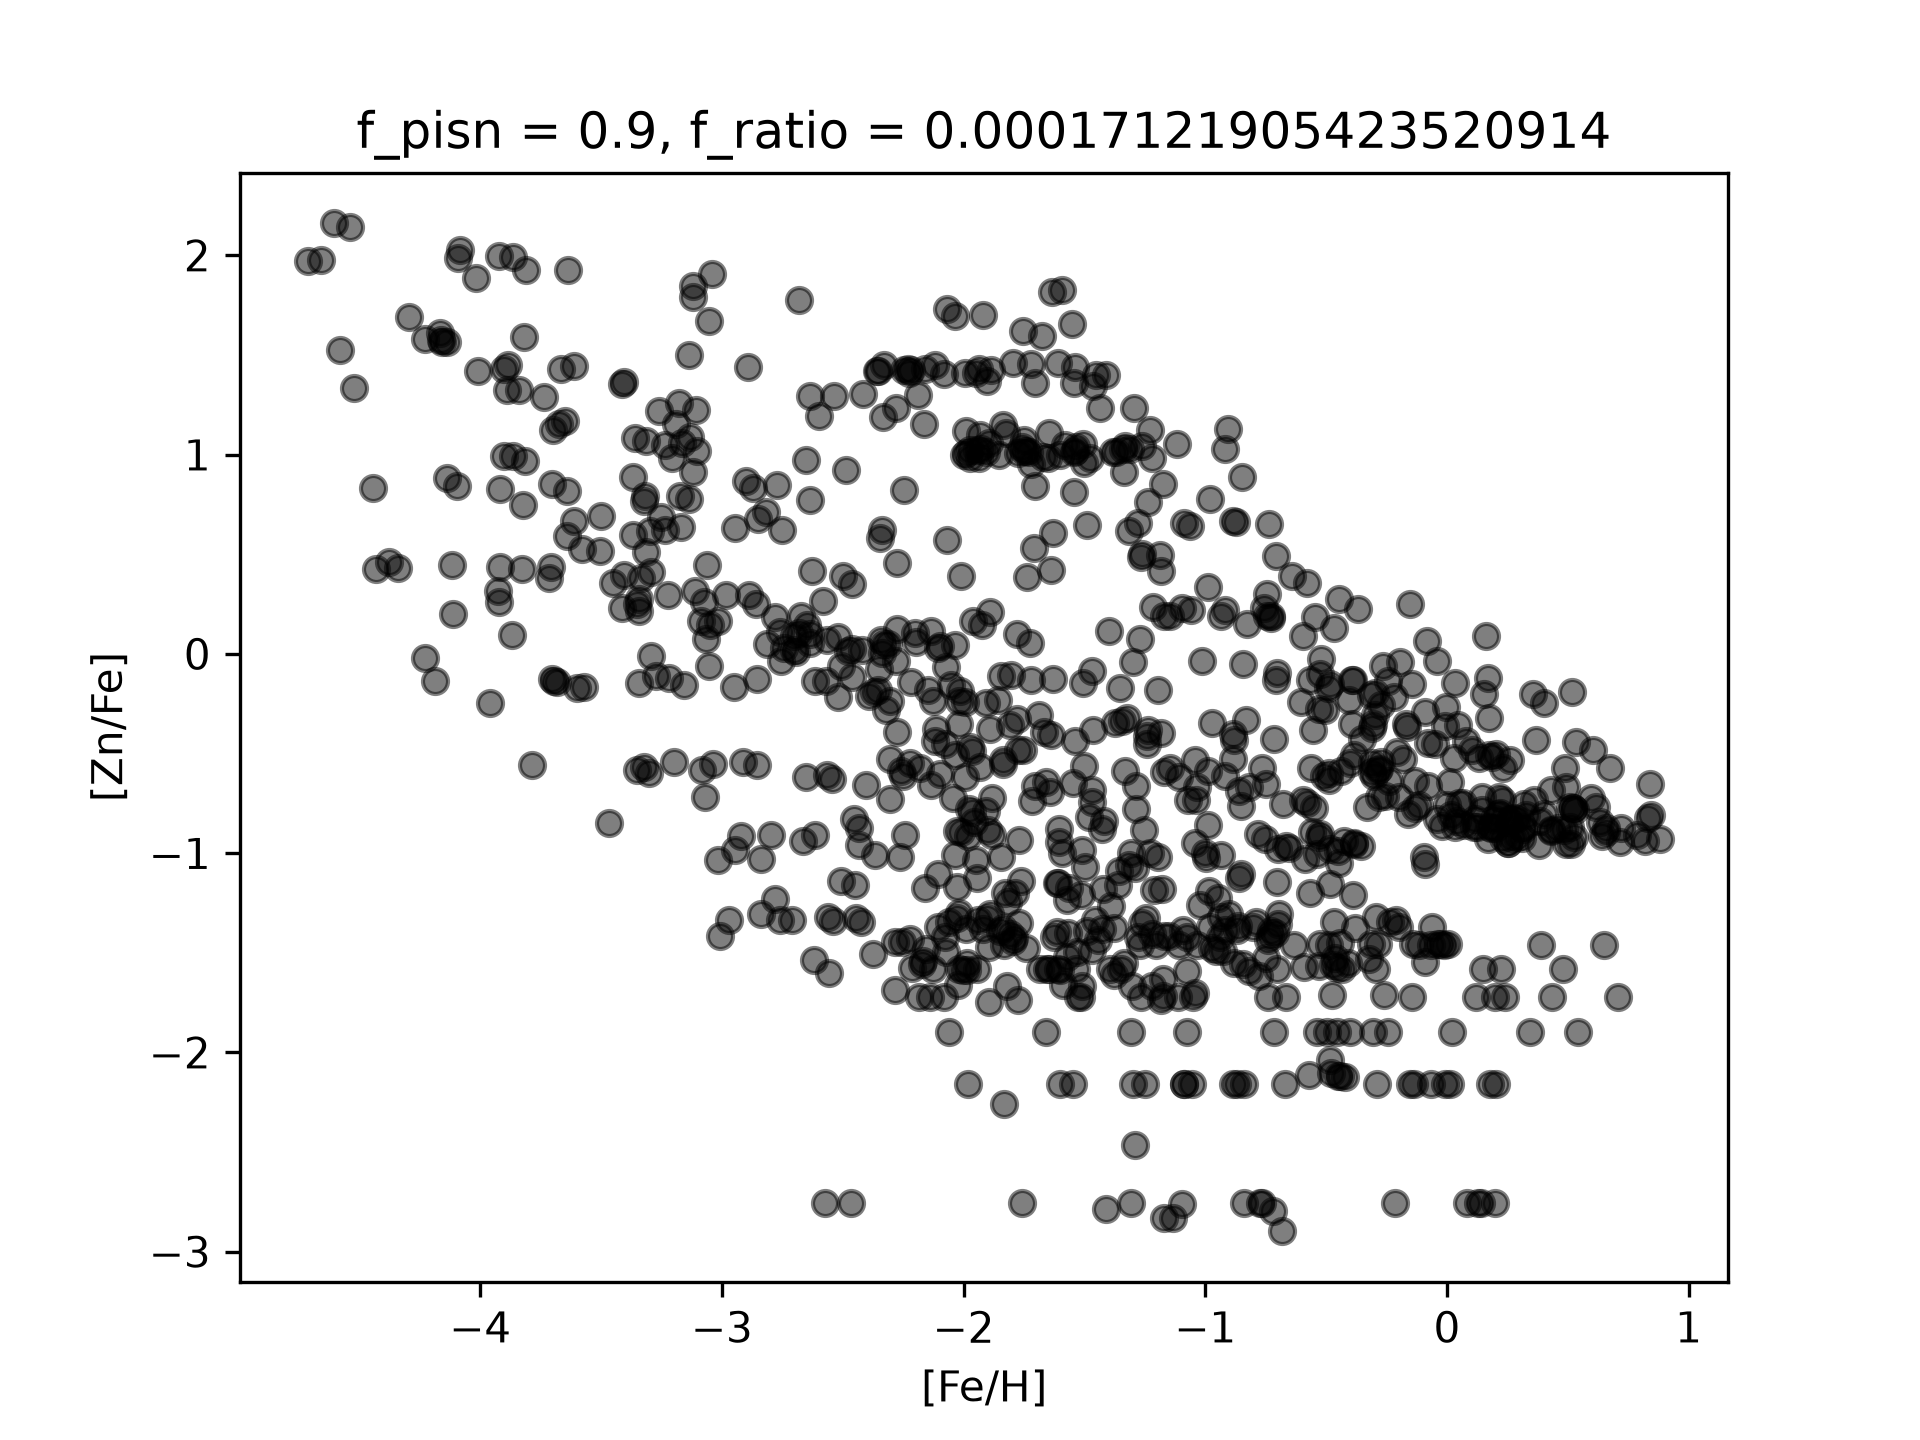
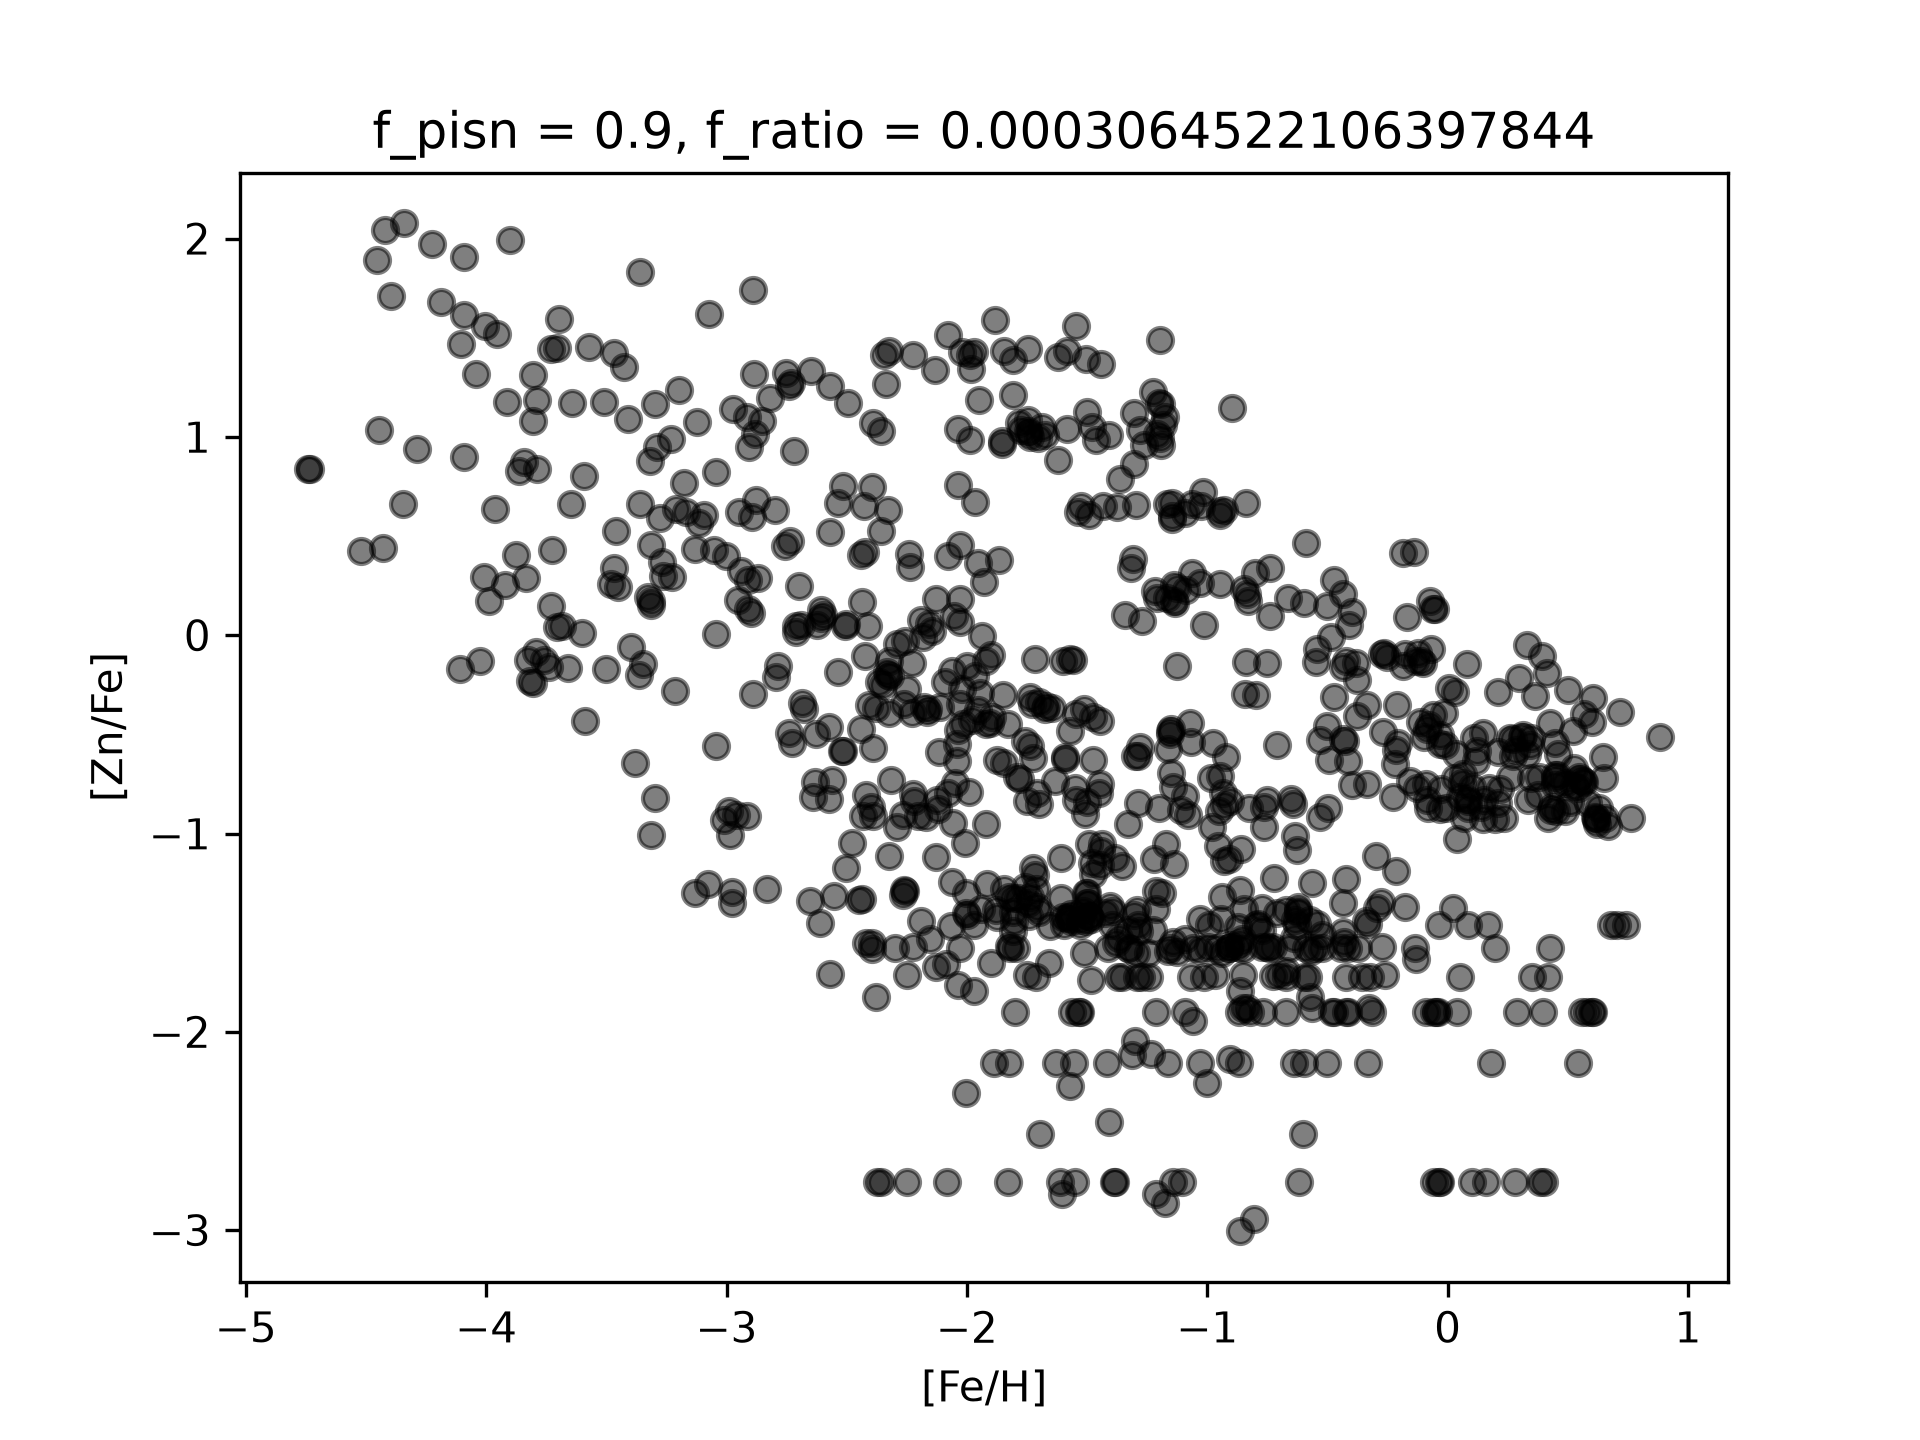
Code for Fig

diff --git a/src/salvadori/fig5.py b/src/salvadori/fig5.py
@@ -1,0 +1,169 @@
+import matplotlib.pyplot as plt
+import numpy as np
+
+from src.load_data import load_ww95
+from src.salvadori_funcs import salvadori_Y_X_II, salvadori_Y_Z_II
+from src.utils import _combine_elements
+from src.formulas import raiteri_lifetime
+from params import ww95_001Z, Z_SUN
+
+# Fig. 5 is computed at a single, fixed stellar metallicity: Z* = 0.01 Zsun,
+# "typical of an environment enriched by a single PISN" (Salvadori+19, p.8).
+Z_STAR = 0.01 * Z_SUN
+MODEL = "A"
+
+ww_data = load_ww95(ww95_001Z)
+
+# Element groups, colors, and per-element line styles keyed to match
+# Salvadori+2019 Fig. 5 (top-to-bottom in each panel = legend order).
+GROUPS = [
+    {
+        "color": "#3355cc",
+        "members": [
+            ("Z",  {"marker": "None", "ls": ":",  "lw": 1.6}),
+            ("O",  {"marker": "o",    "ls": ":",  "mfc": "none"}),
+            ("C",  {"marker": "o",    "ls": "-",  "mfc": "full"}),
+            ("N",  {"marker": "s",    "ls": "--", "mfc": "none"}),
+            ("F",  {"marker": "s",    "ls": "-",  "mfc": "full"}),
+        ],
+    },
+    {
+        "color": "#33aa55",
+        "members": [
+            ("Ne", {"marker": "o", "ls": ":",  "mfc": "none"}),
+            ("Na", {"marker": "*", "ls": ":",  "mfc": "full"}),
+            ("Mg", {"marker": "o", "ls": "-",  "mfc": "full"}),
+            ("Si", {"marker": "s", "ls": "-.", "mfc": "none"}),
+            ("Al", {"marker": "^", "ls": "--", "mfc": "none"}),
+            ("S",  {"marker": "s", "ls": "-",  "mfc": "full"}),
+            ("P",  {"marker": "*", "ls": "-",  "mfc": "full"}),
+        ],
+    },
+    {
+        "color": "#ccaa22",
+        "members": [
+            ("Ar", {"marker": "o", "ls": ":",  "mfc": "none"}),
+            ("Ca", {"marker": "s", "ls": ":",  "mfc": "none"}),
+            ("Ti", {"marker": "o", "ls": "-.", "mfc": "none"}),
+            ("Cl", {"marker": "*", "ls": "-.", "mfc": "full"}),
+            ("K",  {"marker": "s", "ls": "-.", "mfc": "full"}),
+            ("V",  {"marker": "*", "ls": "--", "mfc": "full"}),
+            ("Sc", {"marker": "^", "ls": "--", "mfc": "none"}),
+        ],
+    },
+    {
+        "color": "#cc3333",
+        "members": [
+            ("Fe", {"marker": "o", "ls": "-",  "mfc": "none"}),
+            ("Ni", {"marker": "*", "ls": ":",  "mfc": "full"}),
+            ("Cr", {"marker": "s", "ls": ":",  "mfc": "none"}),
+            ("Mn", {"marker": "o", "ls": "--", "mfc": "full"}),
+            ("Co", {"marker": "s", "ls": "--", "mfc": "full"}),
+            ("Zn", {"marker": "^", "ls": "--", "mfc": "full"}),
+            ("Cu", {"marker": "^", "ls": "-",  "mfc": "full"}),
+        ],
+    },
+]
+
+
+def masses_for_model(data, model=MODEL):
+    ms = sorted(set(e["params"]["mass"] for e in data if e["params"]["model"] == model))
+    return np.asarray(ms, dtype=float)
+
+
+masses = masses_for_model(ww_data)
+lifetimes = np.array([raiteri_lifetime(m, Z_STAR) for m in masses])
+
+# --- Left panel: raw per-star yield mass, m_X^II(m), vs that star's lifetime ---
+def per_star_yield(data, elem, model=MODEL):
+    """Raw ejecta mass of `elem` for each tabulated mass, in the same mass
+    order as `masses_for_model`. 0.0 where the element isn't tabulated for
+    that mass/table at all."""
+    by_mass = {}
+    for entry in data:
+        if entry["params"]["model"] != model:
+            continue
+        yv = _combine_elements(entry["yields"])
+        if elem == "Z":
+            val = sum(v for el, v in yv.items() if el not in ("H", "He"))
+        else:
+            val = yv.get(elem, 0.0)
+        by_mass[entry["params"]["mass"]] = val
+    return np.array([by_mass.get(m, 0.0) for m in masses])
+
+
+# --- Right panel: IMF-integrated, time-cumulative yield, Y_X^II(t) ---
+def cumulative_yield(elem):
+    """Y_X^II evaluated at m_popII = each tabulated mass (i.e. at t = that
+    star's lifetime), using the existing salvadori_Y_X_II / Y_Z_II."""
+    vals = []
+    for m in masses:
+        if elem == "Z":
+            vals.append(salvadori_Y_Z_II(ww_data, m_popII=m, model=MODEL, m_max=100.0))
+        else:
+            vals.append(salvadori_Y_X_II(ww_data, elem=elem, m_popII=m, model=MODEL, m_max=100.0))
+    return np.array(vals)
+
+
+fig, axes = plt.subplots(4, 2, figsize=(10, 11), sharex=True)
+
+for row, group in enumerate(GROUPS):
+    ax_left, ax_right = axes[row, 0], axes[row, 1]
+    color = group["color"]
+
+    for elem, style in group["members"]:
+        y_left = per_star_yield(ww_data, elem)
+        y_right = cumulative_yield(elem)
+
+        mfc = color if style.get("mfc", "full") == "full" else "none"
+        marker = style["marker"]
+        ls = style["ls"]
+
+        mask_l = y_left > 0
+        mask_r = y_right > 0
+
+        ax_left.plot(
+            lifetimes[mask_l], np.log10(y_left[mask_l]),
+            marker=marker if marker != "None" else None,
+            linestyle=ls, color=color, markerfacecolor=mfc,
+            markeredgecolor=color, markersize=5, linewidth=1.0,
+        )
+        ax_right.plot(
+            lifetimes[mask_r], np.log10(y_right[mask_r]),
+            marker=marker if marker != "None" else None,
+            linestyle=ls, color=color, markerfacecolor=mfc,
+            markeredgecolor=color, markersize=5, linewidth=1.0,
+            label=elem,
+        )
+
+    ax_left.set_xscale("log")
+    ax_right.set_xscale("log")
+    ax_left.grid(alpha=0.2)
+    ax_right.grid(alpha=0.2)
+    ax_right.legend(fontsize=7, loc="center left", bbox_to_anchor=(1.01, 0.5),
+                     frameon=False, handlelength=2.2)
+
+axes[0, 0].set_title(r"$\log(m_X^{II}/M_\odot)$ vs lifetime  (single star)", fontsize=10)
+axes[0, 1].set_title(r"$\log(Y_X^{II}/M_\odot)$ vs $t_\mathrm{popII}$  (IMF-integrated)", fontsize=10)
+
+for col in range(2):
+    axes[-1, col].set_xlabel("timescale [yr]")
+axes[0, 0].set_ylabel(r"$\log(m_X^{II}/M_\odot)$")
+axes[0, 1].set_ylabel(r"$\log(Y_X^{II}/M_\odot)$")
+
+# Top axis showing mpopII mass labels, matching the paper's twin axis.
+def add_mass_axis(ax):
+    top = ax.secondary_xaxis("top")
+    tick_masses = [35, 25, 15, 10]
+    tick_masses = [m for m in tick_masses if lifetimes.min() <= raiteri_lifetime(m, Z_STAR) <= lifetimes.max()]
+    top.set_xticks([raiteri_lifetime(m, Z_STAR) for m in tick_masses])
+    top.set_xticklabels([f"{m:.0f}" for m in tick_masses])
+    top.set_xlabel(r"$m_\mathrm{popII}\ (M_\odot)$", fontsize=9)
+
+add_mass_axis(axes[0, 0])
+add_mass_axis(axes[0, 1])
+
+fig.suptitle(r"Fig. 5 replication: $Z_* = 0.01\,Z_\odot$ Pop II yields (WW95)", fontsize=11)
+fig.tight_layout(rect=[0, 0, 1, 0.97])
+plt.savefig("plots/salv_figures/fig5.png", dpi=200, bbox_inches="tight")
+plt.show()

diff --git a/src/salvadori_funcs.py b/src/salvadori_funcs.py
@@ -128,7 +128,7 @@ def salvadori_H_ratio(elem1: str, f_ratio: float, entry: dict) -> float:
     abundance_ratio = np.log10(f_ratio * yields[elem1]) - (A1 - A2) - np.log10(atomic_mass[elem1]/atomic_mass["H"])
     return abundance_ratio
 
-def salvadori_combined_abundratio(elem1_pisn: str, elem1_sn: str, elem2_pisn: str, elem2_sn: str, pisn_data: list[dict],f_pisn: float, f_ratio: float, tpop2: float) -> float:
+def salvadori_combined_abundratio(elem1_pisn: str, elem1_sn: str, elem2_pisn: str, elem2_sn: str, pisn_data: list[dict], sn_data: list[dict], salv_sn_data: list[dict], auto_sn:bool, f_pisn: float, f_ratio: float, tpop2: float) -> float:
     """Compute the combined abundance ratio for a mixture of PISN and SN yields.
         Refer to Eq. 13 of Salvadori et al. 2019.
 
@@ -147,11 +147,6 @@ def salvadori_combined_abundratio(elem1_pisn: str, elem1_sn: str, elem2_pisn: st
     pisn_data["yields"] = _combine_elements(pisn_data["yields"])
     pisn_yields = pisn_data
 
-    # if elem1_pisn not in pisn_yields["yields"] or elem2_pisn not in pisn_yields["yields"]:
-    #     raise ValueError(f"Element {elem1_pisn} or {elem2_pisn} not found in PISN yields.")
-    # if elem1_sn not in sn_yields["yields"] or elem2_sn not in sn_yields["yields"]:
-    #     raise ValueError(f"Element {elem1_sn} or {elem2_sn} not found in SN yields.")
-    
     with open(asplund, "r") as f:
         solar = json.load(f)
 
@@ -170,8 +165,10 @@ def salvadori_combined_abundratio(elem1_pisn: str, elem1_sn: str, elem2_pisn: st
 
     Z_star = f_ratio * Yz_pisn
 
-    ww_model = salvadori_select_ww95_model(Z_star/Z_SUN)
-    sn_data = load_ww95(ww_model)
+    sn_dr_data = sn_data
+    if auto_sn:
+        ww_model = salvadori_select_ww95_model(Z_star/Z_SUN)
+        sn_dr_data = load_ww95(ww_model)
 
     m_popII = raiteri_mass_from_lifetime(lifetime=tpop2,Z=Z_star)
     if m_popII is None:
@@ -181,9 +178,9 @@ def salvadori_combined_abundratio(elem1_pisn: str, elem1_sn: str, elem2_pisn: st
         sn_term_1 = 0.0
         sn_term_2 = 0.0
     else:
-        Yx1_sn = salvadori_Y_X_II(data=sn_data, elem=elem1_sn, m_popII=m_popII, model="A", m_max=100.0)
-        Yx2_sn = salvadori_Y_X_II(data=sn_data, elem=elem2_sn, m_popII=m_popII, model="A", m_max=100.0)
-        Yz_sn  = salvadori_Y_Z_II(data=sn_data, m_popII=m_popII, model="A", m_max=100.0)
+        Yx1_sn = salvadori_Y_X_II(data=sn_dr_data, elem=elem1_sn, m_popII=m_popII, model="A", m_max=100.0)
+        Yx2_sn = salvadori_Y_X_II(data=sn_dr_data, elem=elem2_sn, m_popII=m_popII, model="A", m_max=100.0)
+        Yz_sn  = salvadori_Y_Z_II(data=sn_dr_data, m_popII=m_popII, model="A", m_max=100.0)
         if Yz_sn <= 0:
             sn_term_1 = 0.0
             sn_term_2 = 0.0
@@ -197,7 +194,7 @@ def salvadori_combined_abundratio(elem1_pisn: str, elem1_sn: str, elem2_pisn: st
 
     return combined_ratio
 
-def salvadori_combined_abundratio_WrtH(elem1_pisn: str, elem1_sn: str, pisn_data: list[dict], f_pisn: float, f_ratio: float, tpop2: float) -> float:
+def salvadori_combined_abundratio_WrtH(elem1_pisn: str, elem1_sn: str, pisn_data: list[dict], sn_data: list[dict], salv_sn_data: list[dict], auto_sn: bool, f_pisn: float, f_ratio: float, tpop2: float) -> float:
     """Compute the X/H abundance ratio for a mixture of PISN and SN yields.
         Refer to Eq. 12 of Salvadori et al. 2019.
 
@@ -224,17 +221,18 @@ def salvadori_combined_abundratio_WrtH(elem1_pisn: str, elem1_sn: str, pisn_data
 
     beta = (1-f_pisn)/f_pisn
 
-    Yx1_pisn = _get_element(pisn_yields, elem1_pisn) #/ pisn_yields["params"]["mass"]
+    Yx1_pisn = _get_element(pisn_yields, elem1_pisn)
     Yz_pisn = sum(
         e for element, e in pisn_yields["yields"].items()
         if element not in ("H", "He")
-    ) #/ pisn_yields["params"]["mass"]
+    )
 
     Z_star = f_ratio * Yz_pisn
 
-    ww_model = salvadori_select_ww95_model(Z_star/Z_SUN)
-    print(f"Selected WW95 model: {ww_model} for Z_star/Z_SUN = {Z_star/Z_SUN}")
-    sn_data = load_ww95(ww_model)
+    sn_dr_data = sn_data
+    if auto_sn:
+        ww_model = salvadori_select_ww95_model(Z_star/Z_SUN)
+        sn_dr_data = load_ww95(ww_model)
 
     m_popII = raiteri_mass_from_lifetime(
         lifetime=tpop2,
@@ -249,8 +247,8 @@ def salvadori_combined_abundratio_WrtH(elem1_pisn: str, elem1_sn: str, pisn_data
     if m_popII >= 100.0:
         sn_term = 0.0
     else:
-        Yx1_sn = salvadori_Y_X_II(data=sn_data, elem=elem1_sn, m_popII=m_popII, model="A", m_max=100.0)
-        Yz_sn  = salvadori_Y_Z_II(data=sn_data, m_popII=m_popII, model="A", m_max=100.0)
+        Yx1_sn = salvadori_Y_X_II(data=sn_dr_data, elem=elem1_sn, m_popII=m_popII, model="A", m_max=100.0)
+        Yz_sn  = salvadori_Y_Z_II(data=sn_dr_data, m_popII=m_popII, model="A", m_max=100.0)
         sn_term = 0.0 if Yz_sn <= 0 else (Yx1_sn * Yz_pisn / Yz_sn)
 
     combined_ratio = np.log10(
@@ -296,6 +294,14 @@ def salvadori_Y_X_II(data: list[dict], elem: str, m_popII: float, model: str = "
 
     masses = np.asarray(masses, dtype=float)
     yields = np.asarray(yields, dtype=float)
+
+    if masses.size == 0:
+        # Element not tabulated at all in this yield table/model (e.g. "P"
+        # is absent from some WW95 metallicity grids) -> no contribution.
+        return 0.0
+
+    # Sort by progenitor mass
+    order = np.argsort(masses)
 
     # Sort by progenitor mass
     order = np.argsort(masses)
@@ -379,16 +385,17 @@ def salvadori_Y_Z_II(data: list[dict], m_popII: float, model: str = "A", m_max: 
 from params import ww95_1Z, ww95_01Z, ww95_001Z, ww95_00001Z
 
 
-def salvadori_select_ww95_model(Z_star: float) -> str:
-    """Select the nearest available WW95 metallicity grid.
+def salvadori_select_ww95_model(Z_rel: float) -> str:
+    """Select the nearest WW95 metallicity grid.
 
-    Z_star is expressed in units of Z_sun.
+    Z_rel = Z_star / Z_sun.
     """
-    if Z_star < 0.001:
-        return ww95_00001Z
-    elif Z_star < 0.055:
-        return ww95_001Z
-    elif Z_star < 0.316:
-        return ww95_01Z
-    else:
-        return ww95_1Z
+
+    grids = {
+        1.0: ww95_1Z,
+        0.1: ww95_01Z,
+        0.01: ww95_001Z,
+        1e-4: ww95_00001Z,
+    }
+
+    return grids[min(grids, key=lambda z: abs(np.log10(Z_rel) - np.log10(z)))]

diff --git a/src/salvadori/fig7.py b/src/salvadori/fig7.py
@@ -35,7 +35,6 @@ for elem in ["Cu", "Zn", "N"]:
     Fe_H = []
     for i in range(1000):
         pisn_entry = random.choice(salvadori_pisn_yields)
-        sn_entry = random.choice(sn_yields)
 
         f_pisn = 0.9
         f_ratio = loguniform.rvs(1e-4, 1e-1)
@@ -46,8 +45,8 @@ for elem in ["Cu", "Zn", "N"]:
             "mass": pisn_entry["params"]["mass"],
         }
 
-        combined_ratio = salvadori_combined_abundratio(elem,elem,"Fe","Fe", pisn_data=pisn_entry, f_pisn=f_pisn, f_ratio=f_ratio, tpop2=tpop2)
-        combined_ratio_wrtH = salvadori_combined_abundratio_WrtH("Fe","Fe", pisn_data=pisn_entry, f_pisn=f_pisn, f_ratio=f_ratio, tpop2=tpop2)
+        combined_ratio = salvadori_combined_abundratio(elem,elem,"Fe","Fe", pisn_data=pisn_entry, sn_data=sn_yields, salv_sn_data=salvadori_sn_yields, auto_sn=True, f_pisn=f_pisn, f_ratio=f_ratio, tpop2=tpop2)
+        combined_ratio_wrtH = salvadori_combined_abundratio_WrtH("Fe","Fe", pisn_data=pisn_entry, sn_data=sn_yields, salv_sn_data=salvadori_sn_yields, auto_sn=True, f_pisn=f_pisn, f_ratio=f_ratio, tpop2=tpop2)
 
         if combined_ratio < -4 or combined_ratio_wrtH < -5:
             # print("Very low ratio detected")

diff --git a/src/salvadori/fig4.py b/src/salvadori/fig4.py
@@ -9,12 +9,13 @@ from src.utils import _combine_elements
 hw_yields = load_hw2002()
 takahashi_yields = load_takahashi()
 takahashi_yields = takahashi_yields["NR"]
-
+ww95_yields = load_ww95()
 hw_yields = hw_yields[1:]
 
 pisn_yields = hw_yields
-
+sn_yields = ww95_yields
 salvadori_pisn_yields = salvadori_yields_convert(pisn_yields)
+salvadori_sn_yields = salvadori_yields_convert(sn_yields)
 
 # Style keyed to match Salvadori+2019 Fig. 4 (label -> (marker, color))
 STYLE = {
@@ -26,7 +27,7 @@ STYLE = {
 }
 
 tpop2_list = [3e6, 6e6, 10e6, 20e6, 30e6]  # in years
-f_pisn = 0.9
+f_pisn = 0.5
 
 fig, ax = plt.subplots(figsize=(6, 5))
 
@@ -39,6 +40,9 @@ for tpop2 in tpop2_list:
         Fe_H = salvadori_combined_abundratio_WrtH(
             "Fe", "Fe",
             pisn_data=pisn,
+            sn_data=sn_yields,
+            salv_sn_data=salvadori_sn_yields,
+            auto_sn=True,
             f_pisn=f_pisn,
             f_ratio=f_ratio,
             tpop2=tpop2,

diff --git a/src/formulas.py b/src/formulas.py
@@ -105,7 +105,7 @@ def raiteri_mass_from_lifetime(
     lifetime: float,
     Z: float,
     m_min: float = 0.1,
-    m_max: float = 100.0,
+    m_max: float = 40.0,
 ) -> float | None:
 
     tau_min_mass = raiteri_lifetime(m_max, Z)
